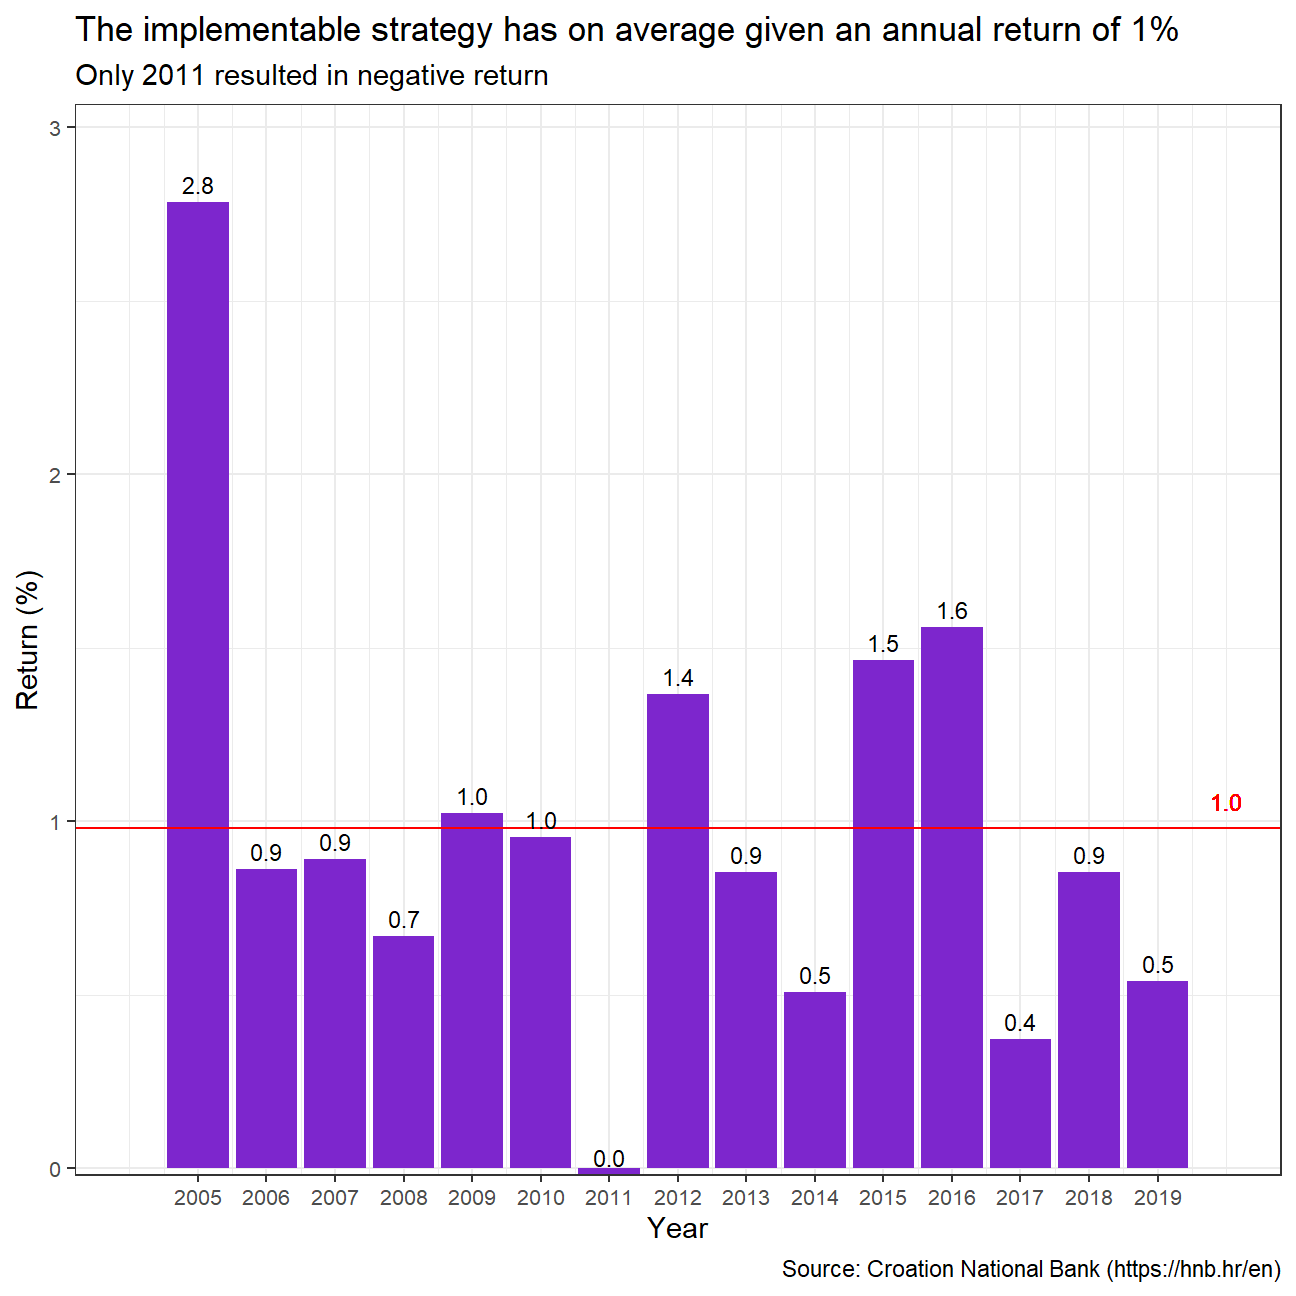
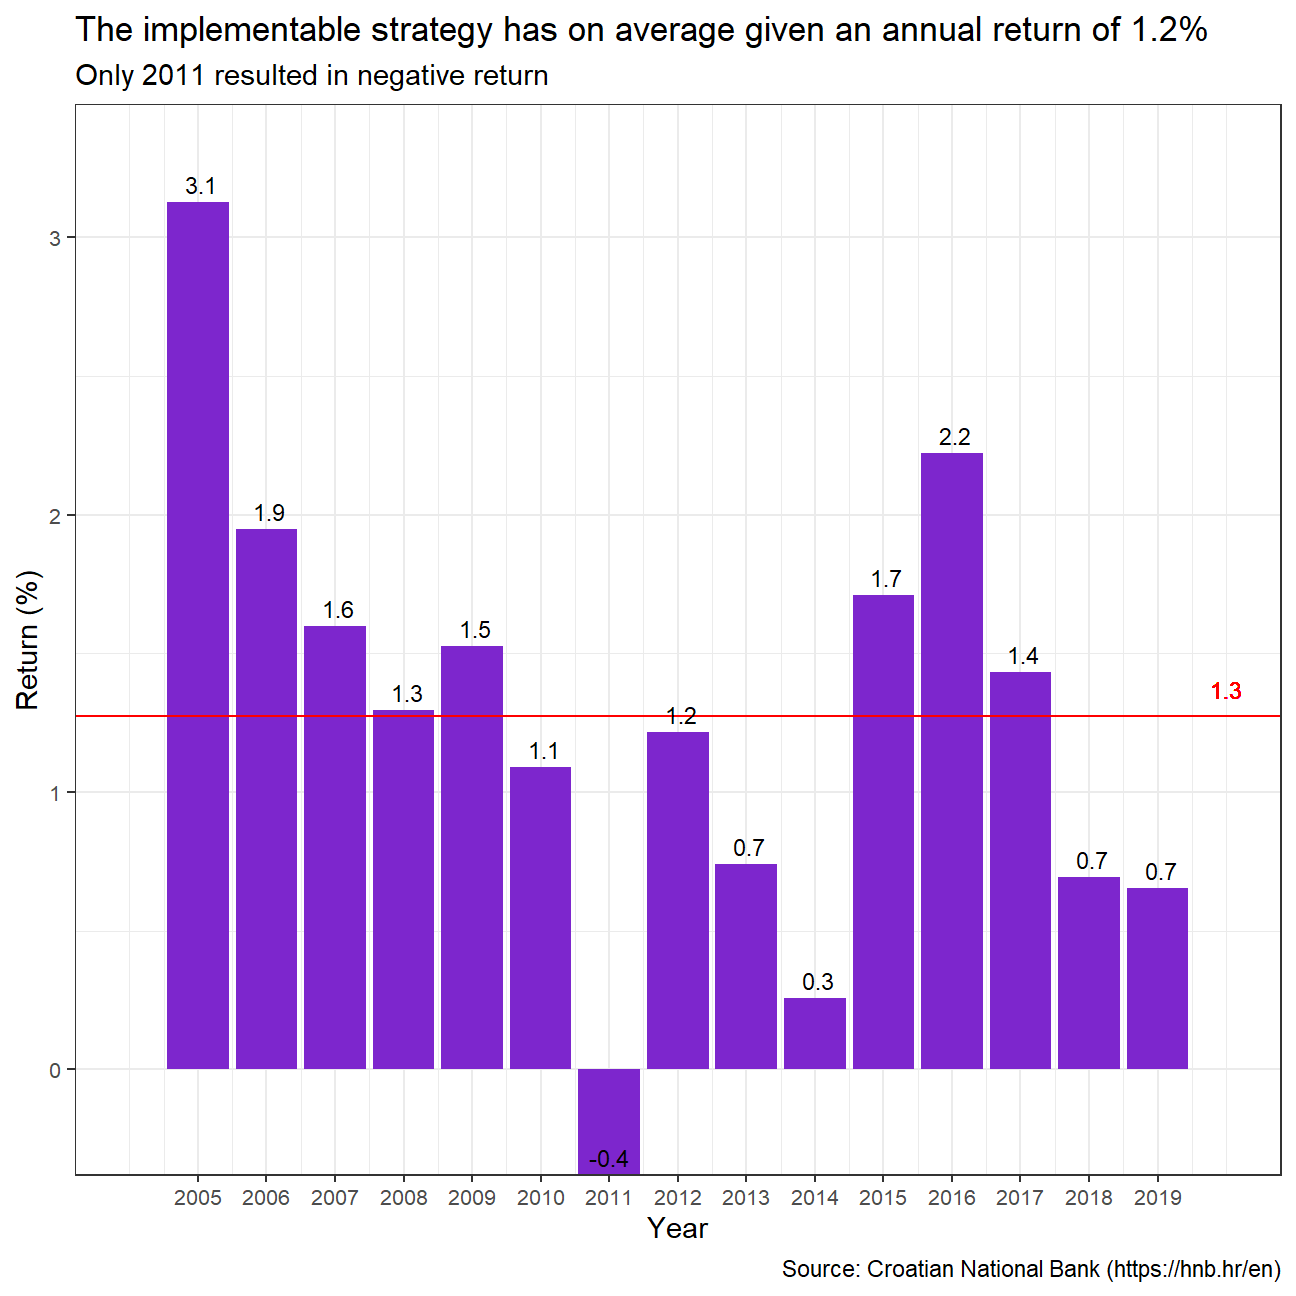
final changes to currency trade

diff --git a/content/projects/Currencytrade.html b/content/projects/Currencytrade.html
@@ -1005,10 +1005,10 @@ ggplot(HRK_data_optimal, aes(x = reorder(t_year, -return),
   #Finally we add titles to the plot
   labs(title = &quot;Employing optimal strategy would have resulted in a \nmean annual return of 2.5%&quot;,
        subtitle = &quot;Return of strategy does not appear to have been reduced in recent years, \nalthough 2019 was a lowpoint&quot;,
-       caption = &quot;Source: Croation National Bank (https://hnb.hr/en)&quot;,
+       caption = &quot;Source: Croatian National Bank (https://hnb.hr/en)&quot;,
        x = &quot;Year&quot;,
        y = &quot;Return (%)&quot;)+
-  # Graphical tweakes - the scale_y_continous makes sure the columns are not floating on the x-axis.
+  # Graphical tweaks - the scale_y_continous makes sure the columns are not floating on the x-axis.
   scale_y_continuous(expand = expansion(mult = c(0, .1)))+
   theme(axis.text = element_text(size = 8))</code></pre>
 <p><img src="/projects/Currencytrade_files/figure-html/unnamed-chunk-5-1.png" width="648" style="display: block; margin: auto;" />
@@ -1104,19 +1104,44 @@ Upper CI (%)
 <div id="implementable-strategy" class="section level2">
 <h2>Implementable strategy</h2>
 <p>We just found the optimal strategy, but let us now try to do the same for the implementable strategy. What we can see in the first table we made (table 1) is that most purchase dates cluster around January and February, while most sales dates cluster around July and August. Let us therefore use the optimal trading dates we just found to find an entry and exit date for the position for every year. One way to do this would be to find the median date in the dataset.</p>
-<pre class="r"><code>HRK_optimal_dates &lt;- HRK_data_optimal %&gt;% 
-  # We want to convert the months and days for each optimal date into numbers (we do not care about the year). There is no mmdd format for lubridate, so instead we find the number of days in the year
-  mutate(monthday_purchase = month(date_purchase) * 30 + day(date_purchase),
-         monthday_sale = month(date_sale) * 30 + day(date_sale)) %&gt;% 
-  #Next we find the median purchase and sales day
+<pre class="r"><code># To find the optimal date, let us take the median of the month and date, as this will give us a good estimate for an optimal date
+
+HRK_optimal_dates &lt;- HRK_data_optimal %&gt;% 
+  
+  # We want to convert the months and days for each optimal date into numbers (we do not care about the year). There is no mmdd format for lubridate, so instead we multiply the number of month by 32 (any number larger than 31 works) and add the number of the day, this way we will be able to separate days and months when we convert it back, as the remainder of 32 will be the day, and the divisor from 32 will be the month
+  
+  # Since our purchase period (off-season) is found between two years, we cannot just multiply the month by 32, as it would mix our periodization up (we want november to be in the beginning of the period - not the end). We therefore multiply by 32*1 if month is november, 32*2 if december, 32*3 if january and so on.
+  
+  mutate(monthday_purchase = 32 * case_when(
+    month(date_purchase) == 11 ~ 1,
+    month(date_purchase) == 12 ~ 2,
+    month(date_purchase) == 1 ~ 3,
+    month(date_purchase) == 2 ~ 4,
+    month(date_purchase) == 3 ~ 5,
+    month(date_purchase) == 4 ~ 6) 
+    + day(date_purchase),
+    
+    # Convert the sales date - since all months happen during one year we do not have to do the conversion as above
+    monthday_sale = month(date_sale) * 32 + day(date_sale)) %&gt;% 
+  
+  # Finds the median date
   summarize(median_purchase = median(monthday_purchase),
             median_sale = median(monthday_sale)) %&gt;% 
-  # Now we convert this back into a seperate month and day column
-  mutate(optimal_purchase_month = month(median_purchase %/% 30, label = TRUE),
-         optimal_purchase_day = median_purchase %% 30,
-         optimal_sale_month = month(median_sale %/% 30, label = TRUE),
-         optimal_sale_day = median_sale %% 30
+    # Converts median back to month and day format
+  mutate(optimal_purchase_month = month(case_when(
+    median_purchase %/% 32 == 1 ~ 11,
+    median_purchase %/% 32 == 2 ~ 12,
+    median_purchase %/% 32 == 3 ~ 1,
+    median_purchase %/% 32 == 4 ~ 2,
+    median_purchase %/% 32 == 5 ~ 3,
+    median_purchase %/% 32 == 6 ~ 4), 
+    label = TRUE),
+         optimal_purchase_day = median_purchase %% 32,
+    
+         optimal_sale_month = month(median_sale %/% 32, label = TRUE),
+         optimal_sale_day = median_sale %% 32
          )
+
 # Let us make a nice table for this, where we furthermore show concatenate the day and month for purchase and sale date
  HRK_optimal_dates %&gt;%
    # We unite the columns of the month and day for sale and purchase and separate them with &quot;-&quot;
@@ -1145,7 +1170,7 @@ Optimal sale date
 <tbody>
 <tr>
 <td style="text-align:left;">
-Mar-2
+Jan-25
 </td>
 <td style="text-align:left;">
 Jul-18
@@ -1207,12 +1232,12 @@ HRK_fixed_dates %&gt;%
              size = 3,
              color = &quot;red&quot;)+
   #Finally we add titles to the plot
-  labs(title = &quot;The implementable strategy has on average given an annual return of 1%&quot;,
+  labs(title = &quot;The implementable strategy has on average given an annual return of 1.2%&quot;,
        subtitle = &quot;Only 2011 resulted in negative return&quot;,
-       caption = &quot;Source: Croation National Bank (https://hnb.hr/en)&quot;,
+       caption = &quot;Source: Croatian National Bank (https://hnb.hr/en)&quot;,
        x = &quot;Year&quot;,
        y = &quot;Return (%)&quot;)+
-  # Graphical tweaks - the scale_y_continous makes sure the columns are not floating on the x-axis.
+  # Graphical tweaks - the scale_y_continuous makes sure the columns are not floating on the x-axis.
   scale_y_continuous(expand = expansion(mult = c(0, .1)))+
   scale_x_continuous(limits = c(2004,2020), 
                      breaks = seq(2005,2019,  by = 1))+
@@ -1258,13 +1283,13 @@ Upper CI (%)
 <tbody>
 <tr>
 <td style="text-align:right;">
-0.98
+1.28
 </td>
 <td style="text-align:right;">
-0.62
+0.81
 </td>
 <td style="text-align:right;">
-1.34
+1.74
 </td>
 </tr>
 </tbody>

diff --git a/public/projects/currency-trade/index.html b/public/projects/currency-trade/index.html
@@ -1072,10 +1072,10 @@ ggplot(HRK_data_optimal, aes(x = reorder(t_year, -return),
   #Finally we add titles to the plot
   labs(title = &quot;Employing optimal strategy would have resulted in a \nmean annual return of 2.5%&quot;,
        subtitle = &quot;Return of strategy does not appear to have been reduced in recent years, \nalthough 2019 was a lowpoint&quot;,
-       caption = &quot;Source: Croation National Bank (https://hnb.hr/en)&quot;,
+       caption = &quot;Source: Croatian National Bank (https://hnb.hr/en)&quot;,
        x = &quot;Year&quot;,
        y = &quot;Return (%)&quot;)+
-  # Graphical tweakes - the scale_y_continous makes sure the columns are not floating on the x-axis.
+  # Graphical tweaks - the scale_y_continous makes sure the columns are not floating on the x-axis.
   scale_y_continuous(expand = expansion(mult = c(0, .1)))+
   theme(axis.text = element_text(size = 8))</code></pre>
 <p><img src="/projects/Currencytrade_files/figure-html/unnamed-chunk-5-1.png" width="648" style="display: block; margin: auto;" />
@@ -1171,19 +1171,44 @@ Upper CI (%)
 <div id="implementable-strategy" class="section level2">
 <h2>Implementable strategy</h2>
 <p>We just found the optimal strategy, but let us now try to do the same for the implementable strategy. What we can see in the first table we made (table 1) is that most purchase dates cluster around January and February, while most sales dates cluster around July and August. Let us therefore use the optimal trading dates we just found to find an entry and exit date for the position for every year. One way to do this would be to find the median date in the dataset.</p>
-<pre class="r"><code>HRK_optimal_dates &lt;- HRK_data_optimal %&gt;% 
-  # We want to convert the months and days for each optimal date into numbers (we do not care about the year). There is no mmdd format for lubridate, so instead we find the number of days in the year
-  mutate(monthday_purchase = month(date_purchase) * 30 + day(date_purchase),
-         monthday_sale = month(date_sale) * 30 + day(date_sale)) %&gt;% 
-  #Next we find the median purchase and sales day
+<pre class="r"><code># To find the optimal date, let us take the median of the month and date, as this will give us a good estimate for an optimal date
+
+HRK_optimal_dates &lt;- HRK_data_optimal %&gt;% 
+  
+  # We want to convert the months and days for each optimal date into numbers (we do not care about the year). There is no mmdd format for lubridate, so instead we multiply the number of month by 32 (any number larger than 31 works) and add the number of the day, this way we will be able to separate days and months when we convert it back, as the remainder of 32 will be the day, and the divisor from 32 will be the month
+  
+  # Since our purchase period (off-season) is found between two years, we cannot just multiply the month by 32, as it would mix our periodization up (we want november to be in the beginning of the period - not the end). We therefore multiply by 32*1 if month is november, 32*2 if december, 32*3 if january and so on.
+  
+  mutate(monthday_purchase = 32 * case_when(
+    month(date_purchase) == 11 ~ 1,
+    month(date_purchase) == 12 ~ 2,
+    month(date_purchase) == 1 ~ 3,
+    month(date_purchase) == 2 ~ 4,
+    month(date_purchase) == 3 ~ 5,
+    month(date_purchase) == 4 ~ 6) 
+    + day(date_purchase),
+    
+    # Convert the sales date - since all months happen during one year we do not have to do the conversion as above
+    monthday_sale = month(date_sale) * 32 + day(date_sale)) %&gt;% 
+  
+  # Finds the median date
   summarize(median_purchase = median(monthday_purchase),
             median_sale = median(monthday_sale)) %&gt;% 
-  # Now we convert this back into a seperate month and day column
-  mutate(optimal_purchase_month = month(median_purchase %/% 30, label = TRUE),
-         optimal_purchase_day = median_purchase %% 30,
-         optimal_sale_month = month(median_sale %/% 30, label = TRUE),
-         optimal_sale_day = median_sale %% 30
+    # Converts median back to month and day format
+  mutate(optimal_purchase_month = month(case_when(
+    median_purchase %/% 32 == 1 ~ 11,
+    median_purchase %/% 32 == 2 ~ 12,
+    median_purchase %/% 32 == 3 ~ 1,
+    median_purchase %/% 32 == 4 ~ 2,
+    median_purchase %/% 32 == 5 ~ 3,
+    median_purchase %/% 32 == 6 ~ 4), 
+    label = TRUE),
+         optimal_purchase_day = median_purchase %% 32,
+    
+         optimal_sale_month = month(median_sale %/% 32, label = TRUE),
+         optimal_sale_day = median_sale %% 32
          )
+
 # Let us make a nice table for this, where we furthermore show concatenate the day and month for purchase and sale date
  HRK_optimal_dates %&gt;%
    # We unite the columns of the month and day for sale and purchase and separate them with &quot;-&quot;
@@ -1212,7 +1237,7 @@ Optimal sale date
 <tbody>
 <tr>
 <td style="text-align:left;">
-Mar-2
+Jan-25
 </td>
 <td style="text-align:left;">
 Jul-18
@@ -1274,12 +1299,12 @@ HRK_fixed_dates %&gt;%
              size = 3,
              color = &quot;red&quot;)+
   #Finally we add titles to the plot
-  labs(title = &quot;The implementable strategy has on average given an annual return of 1%&quot;,
+  labs(title = &quot;The implementable strategy has on average given an annual return of 1.2%&quot;,
        subtitle = &quot;Only 2011 resulted in negative return&quot;,
-       caption = &quot;Source: Croation National Bank (https://hnb.hr/en)&quot;,
+       caption = &quot;Source: Croatian National Bank (https://hnb.hr/en)&quot;,
        x = &quot;Year&quot;,
        y = &quot;Return (%)&quot;)+
-  # Graphical tweaks - the scale_y_continous makes sure the columns are not floating on the x-axis.
+  # Graphical tweaks - the scale_y_continuous makes sure the columns are not floating on the x-axis.
   scale_y_continuous(expand = expansion(mult = c(0, .1)))+
   scale_x_continuous(limits = c(2004,2020), 
                      breaks = seq(2005,2019,  by = 1))+
@@ -1325,13 +1350,13 @@ Upper CI (%)
 <tbody>
 <tr>
 <td style="text-align:right;">
-0.98
+1.28
 </td>
 <td style="text-align:right;">
-0.62
+0.81
 </td>
 <td style="text-align:right;">
-1.34
+1.74
 </td>
 </tr>
 </tbody>
